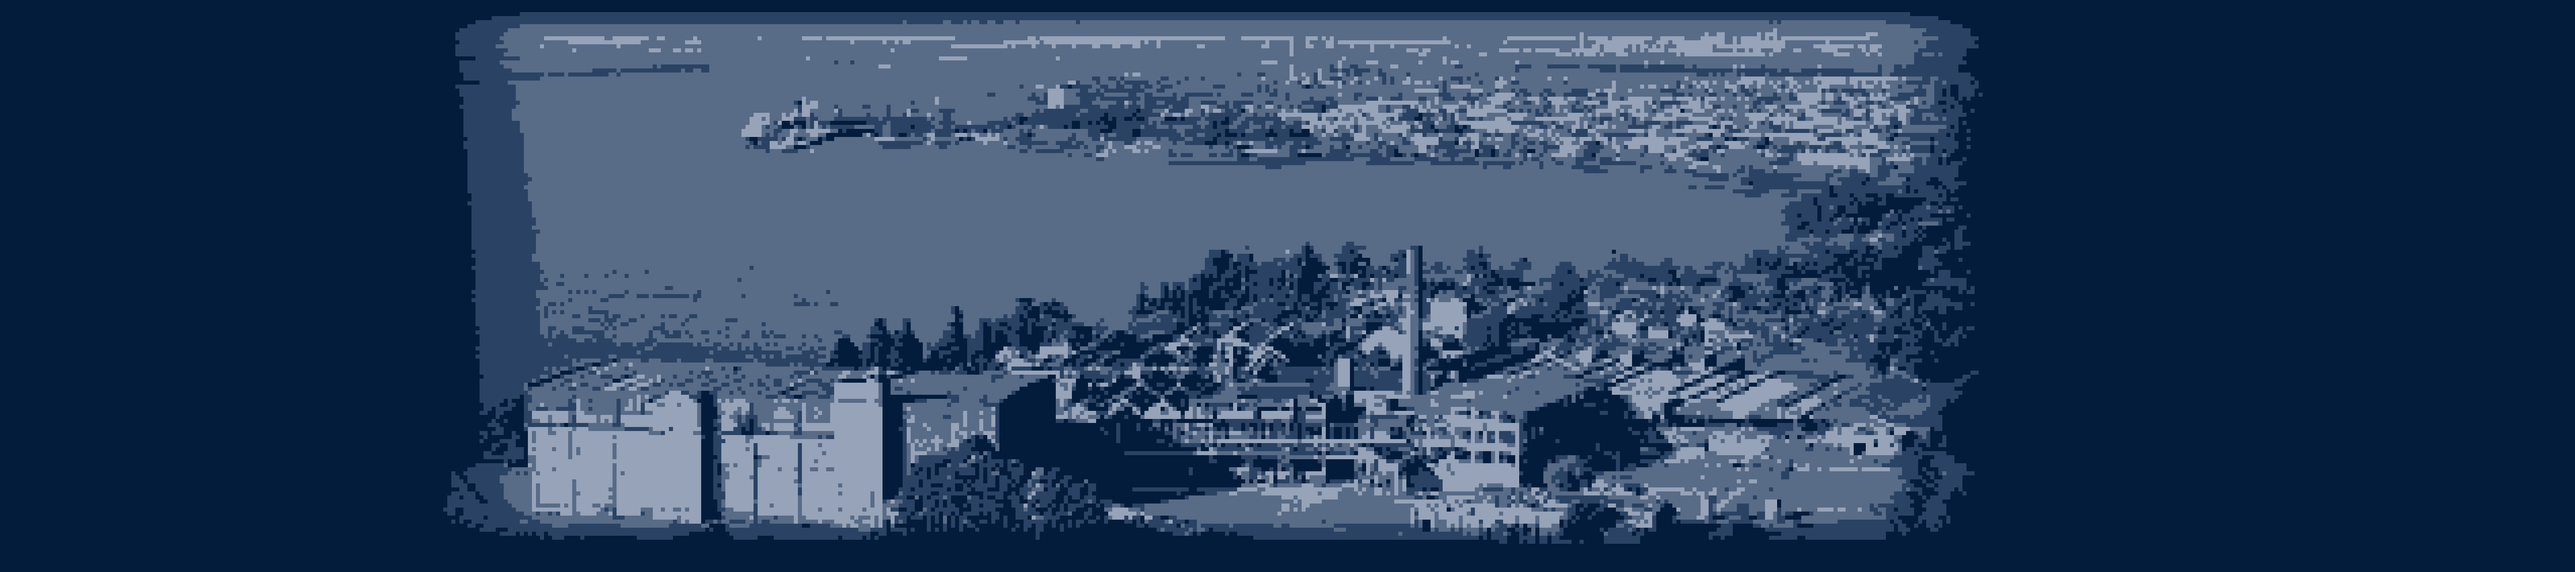
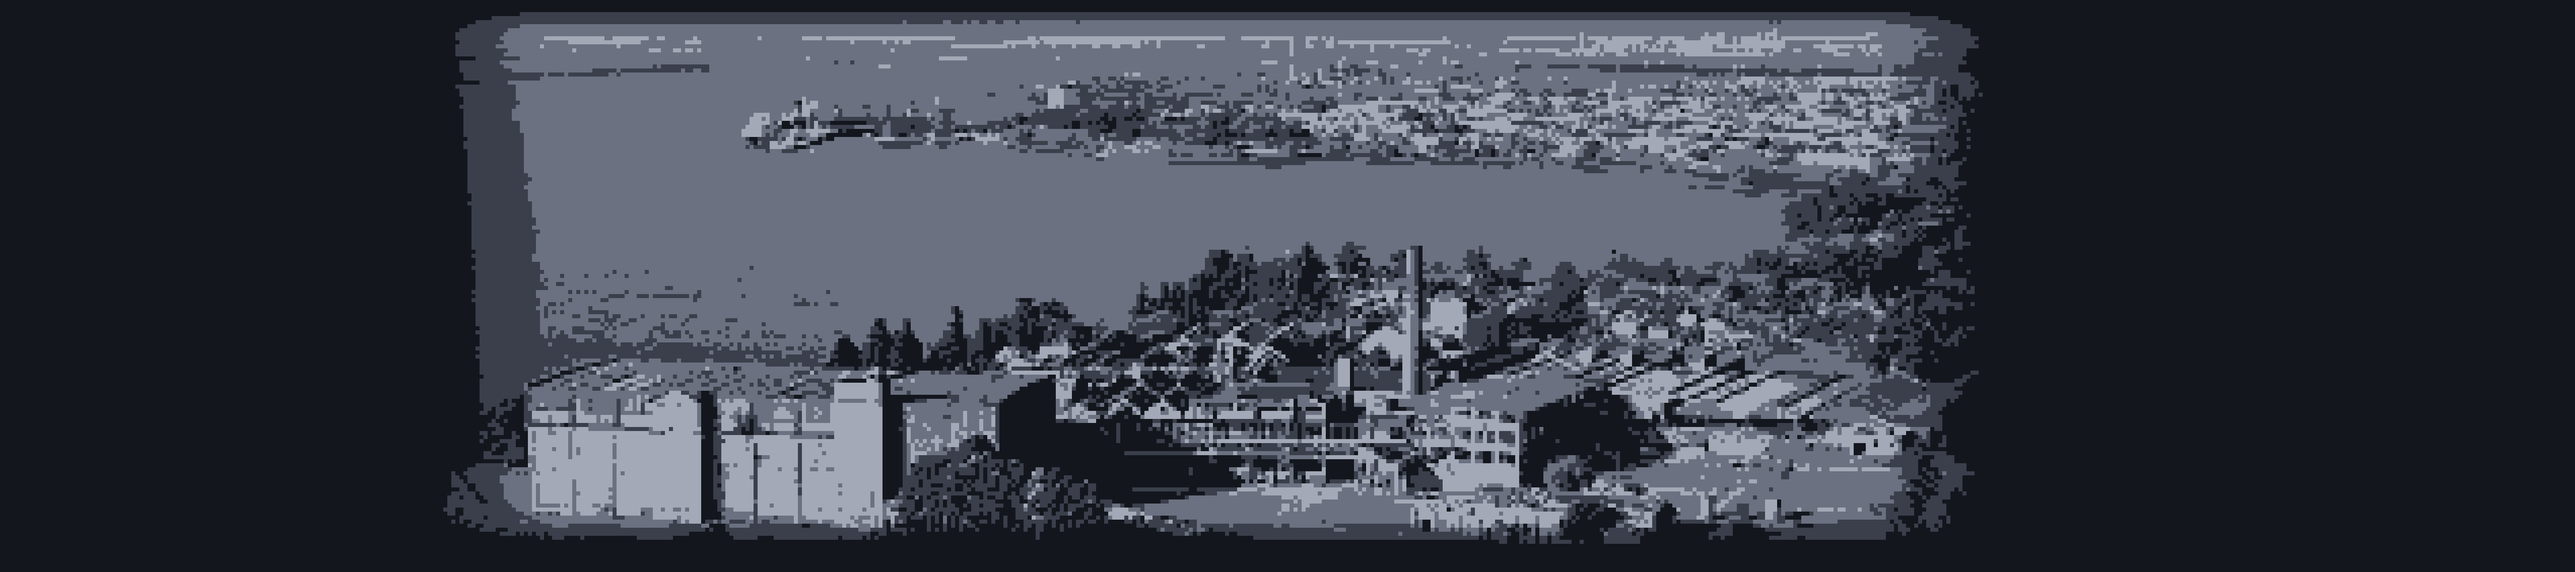
Azul marino solo en el encabezado y el hero del Inicio
El resto del sitio vuelve a la tinta #13161D, que se lee mejor. Quedan
los tres azules en la barra superior, el encabezado (logo, menú y línea)
y el hero del Inicio.

Claude-Session: https://claude.ai/code/session_01XDQNezff6H2LUhgaf4Q66F

diff --git a/src/sitio/componentes/inicio/HeroInicio.tsx b/src/sitio/componentes/inicio/HeroInicio.tsx
@@ -39,7 +39,7 @@ export function HeroInicio({ children }: { children?: React.ReactNode }) {
     .replace('.', '')
 
   return (
-    <section aria-label="Visión FM 96.5" className="relative isolate overflow-hidden bg-blanco text-tinta">
+    <section aria-label="Visión FM 96.5" className="relative isolate overflow-hidden bg-blanco text-marino">
       {/* Web: el dibujo del Anglo, con más agua abajo para llenar el hueco debajo de los botones */}
       <div
         aria-hidden
@@ -55,7 +55,7 @@ export function HeroInicio({ children }: { children?: React.ReactNode }) {
             <span className="block">Fray Bentos</span>
           </h1>
           {/* En web, una idea por renglón */}
-          <p className="m-0 max-w-[520px] text-[17px] leading-[1.5] text-pretty text-tinta [text-shadow:0_0_10px_#fff,0_0_4px_#fff] md:text-xl lg:max-w-none">
+          <p className="m-0 max-w-[520px] text-[17px] leading-[1.5] text-pretty text-marino [text-shadow:0_0_10px_#fff,0_0_4px_#fff] md:text-xl lg:max-w-none">
             <span className="lg:block">Escuchá la radio en vivo,</span>{' '}
             <span className="lg:block">leé las noticias de Fray{'\u00a0'}Bentos y Río{'\u00a0'}Negro</span>{' '}
             <span className="lg:block">y mirá la cartelera de Cinevisión.</span>
@@ -65,7 +65,7 @@ export function HeroInicio({ children }: { children?: React.ReactNode }) {
             <BotonEnVivo variante="inicio" />
             <Link
               href="/radio/programacion"
-              className="apretable hidden min-h-[54px] items-center rounded-[3px] border-2 border-tinta bg-blanco px-7 text-[13px] font-extrabold tracking-[0.1em] text-tinta uppercase no-underline hover:bg-tinta hover:text-blanco md:flex"
+              className="apretable hidden min-h-[54px] items-center rounded-[3px] border-2 border-marino bg-blanco px-7 text-[13px] font-extrabold tracking-[0.1em] text-marino uppercase no-underline hover:bg-marino hover:text-blanco md:flex"
             >
               Programación completa
             </Link>
@@ -79,7 +79,7 @@ export function HeroInicio({ children }: { children?: React.ReactNode }) {
 
         <div
           id="programacion"
-          className="relative flex min-w-0 flex-[1_1_360px] flex-col rounded-[8px] border border-tinta bg-blanco px-5 pt-5 pb-1.5 shadow-[0_14px_40px_rgb(3_28_59/0.14)] md:px-6 md:pt-[22px] flotante-claro lg:absolute lg:top-[351px] lg:left-[847.5px] lg:w-[360px]"
+          className="relative flex min-w-0 flex-[1_1_360px] flex-col rounded-[8px] border border-marino bg-blanco px-5 pt-5 pb-1.5 shadow-[0_14px_40px_rgb(3_28_59/0.14)] md:px-6 md:pt-[22px] flotante-claro lg:absolute lg:top-[351px] lg:left-[847.5px] lg:w-[360px]"
         >
           <div className="flex items-center justify-between gap-3 pb-3">
             <h2 className="m-0 flex items-center gap-2 text-xs font-extrabold tracking-[0.12em] text-acento uppercase md:text-[13px]">
@@ -87,7 +87,7 @@ export function HeroInicio({ children }: { children?: React.ReactNode }) {
               {alAire ? alAire.programa.nombre : 'A continuación'}
             </h2>
             <span className="hidden text-[13px] text-meta first-letter:uppercase md:inline">{fechaCabecera}</span>
-            <Link href="/radio/programacion" className="text-xs font-bold text-tinta md:hidden">
+            <Link href="/radio/programacion" className="text-xs font-bold text-marino md:hidden">
               Ver toda
             </Link>
           </div>
@@ -106,7 +106,7 @@ export function HeroInicio({ children }: { children?: React.ReactNode }) {
 
       <a
         href="#despues-del-hero"
-        className="invitacion-titilar absolute bottom-5 left-1/2 hidden -translate-x-1/2 flex-col items-center gap-1.5 text-[11px] font-extrabold tracking-[0.16em] text-meta uppercase no-underline hover:text-tinta lg:flex"
+        className="invitacion-titilar absolute bottom-5 left-1/2 hidden -translate-x-1/2 flex-col items-center gap-1.5 text-[11px] font-extrabold tracking-[0.16em] text-meta uppercase no-underline hover:text-marino lg:flex"
       >
         <IconoFlechaAbajo tamano={18} className="invitacion-bajar" />
         Deslizá para seguir

diff --git a/src/sitio/componentes/globales/Encabezado.tsx b/src/sitio/componentes/globales/Encabezado.tsx
@@ -82,10 +82,10 @@ export function Encabezado({
           className="fixed inset-0 z-[19] bg-tinta/60 lg:hidden"
         />
       )}
-      <header className="relative z-20 border-b-[3px] border-tinta bg-blanco">
+      <header className="relative z-20 border-b-[3px] border-marino bg-blanco">
         {/* Web */}
         <div className="contenedor hidden items-center justify-between gap-4 py-2 lg:flex">
-          <Link href="/" className="text-tinta" aria-label="Visión FM 96.5, ir al inicio">
+          <Link href="/" className="text-marino" aria-label="Visión FM 96.5, ir al inicio">
             <LogoApilado tamano={40} className="block" />
           </Link>
           <nav ref={nav} aria-label="Principal" className="flex gap-7 text-marino-menu">
@@ -129,7 +129,7 @@ export function Encabezado({
                   <IconoFlechaAbajo />
                 </button>
                 {desplegado === g.clave && (
-                  <div className="absolute top-full -left-[18px] z-30 flex min-w-[260px] flex-col border-2 border-tinta bg-blanco">
+                  <div className="absolute top-full -left-[18px] z-30 flex min-w-[260px] flex-col border-2 border-marino bg-blanco text-marino-menu">
                     {g.enlaces.map((e) => (
                       <Link
                         key={e.href}
@@ -159,7 +159,7 @@ export function Encabezado({
               aria-expanded={menuAbierto}
               aria-controls="menu-movil"
               onClick={() => setMenuAbierto(!menuAbierto)}
-              className="absolute top-0 right-0 flex size-11 cursor-pointer items-center justify-end text-tinta"
+              className="absolute top-0 right-0 flex size-11 cursor-pointer items-center justify-end text-marino"
             >
               {/* Tres líneas sin recuadro, alineadas al margen; al abrir, la de arriba y la de abajo giran y
                   forman la cruz, y la del medio se desvanece */}
@@ -179,12 +179,12 @@ export function Encabezado({
           <Cinta notas={cinta.notas} clima={cinta.clima} />
           {menuAbierto && (
             // Encima de la página, sin empujarla: tapa la línea del encabezado y la repite abajo
-            <div className="absolute inset-x-0 top-full z-10 border-b-[3px] border-tinta bg-blanco px-4 pb-3 shadow-[0_16px_24px_rgb(3_28_59/0.18)] md:px-6">
+            <div className="absolute inset-x-0 top-full z-10 border-b-[3px] border-marino bg-blanco px-4 pb-3 shadow-[0_16px_24px_rgb(3_28_59/0.18)] md:px-6">
               <nav
                 id="menu-movil"
                 aria-label="Principal"
                 // El encabezado es fijo: el menú abierto se desplaza adentro si no entra en la pantalla
-                className="flex max-h-[calc(100dvh-7rem)] flex-col overflow-y-auto overscroll-contain border-t-[3px] border-tinta text-marino-menu"
+                className="flex max-h-[calc(100dvh-7rem)] flex-col overflow-y-auto overscroll-contain border-t-[3px] border-marino text-marino-menu"
               >
                 {DIRECTOS_CELULAR.map((e) => {
                   const enSeccion = ruta === e.href || ruta.startsWith(`${e.href}/`)

diff --git a/src/styles/tokens.css b/src/styles/tokens.css
@@ -3,10 +3,11 @@
 @theme {
   --color-*: initial;
   --color-blanco: #ffffff;
-  --color-tinta: #031c3b;
-  /* Azules institucionales (27/11/2026): la tinta (#031C3B) es la de los títulos y el texto; la barra de
-     arriba y el menú principal llevan los suyos */
+  --color-tinta: #13161d;
+  /* Azules institucionales (27/11/2026), solo en el encabezado y el hero del Inicio: el resto del sitio es
+     de lectura y sigue con la tinta. Barra de arriba, títulos del hero y logo, y menú principal. */
   --color-marino-barra: #011b3c;
+  --color-marino: #031c3b;
   --color-marino-menu: #101f3a;
   --color-acento: #c03a0b;
   --color-acento-hover: #a3330a;
@@ -23,9 +24,9 @@
   --color-meta: #545862;
   --color-oscuro-1: #c9ccd3;
   --color-oscuro-2: #9ea3ae;
-  --color-oscuro-borde: #2a4364;
-  --color-oscuro-linea: #1c3557;
-  --color-oscuro-caja: #0d2849;
+  --color-oscuro-borde: #3a3f4b;
+  --color-oscuro-linea: #2c313c;
+  --color-oscuro-caja: #1d212b;
   /* Carrusel de Cinevisión */
   --color-carrusel: #d4d2cd;
   --color-carrusel-2: #cbc9c3;

diff --git a/src/sitio/componentes/inicio/FondoPixelado.tsx b/src/sitio/componentes/inicio/FondoPixelado.tsx
@@ -24,7 +24,7 @@ import { useRadio } from '../reproductor/Radio'
  */
 /** Si se cambia una imagen, va con otro nombre: así el navegador y Cloudflare no muestran la vieja. */
 const IMAGENES = ['/hero/plaza-4px.png', '/hero/anglo-4px.png']
-const TINTA = '#031c3b'
+const TINTA = '#13161d'
 
 /** Lado del cuadrito dentro de la imagen (las imágenes están al doble: 4 px en pantalla). */
 const CELDA = 8
@@ -368,7 +368,7 @@ export function FondoPixelado() {
         <canvas ref={lienzo} className="absolute inset-0 size-full opacity-0" />
       </div>
       {/* Velo: oscuro donde va el texto, abierto donde está la figura */}
-      <div className="absolute inset-0 bg-[linear-gradient(90deg,rgb(3_28_59/0.6)_max(30%,calc(50%-290px)),rgb(3_28_59/0.25)_max(52%,calc(50%+30px)),transparent_max(70%,calc(50%+290px)))]" />
+      <div className="absolute inset-0 bg-[linear-gradient(90deg,rgb(19_22_29/0.6)_max(30%,calc(50%-290px)),rgb(19_22_29/0.25)_max(52%,calc(50%+30px)),transparent_max(70%,calc(50%+290px)))]" />
     </div>
   )
 }

diff --git a/src/app/global-error.tsx b/src/app/global-error.tsx
@@ -5,7 +5,7 @@
 export default function ErrorGlobal({ reset }: { reset: () => void }) {
   return (
     <html lang="es-UY">
-      <body style={{ margin: 0, fontFamily: 'system-ui, -apple-system, "Segoe UI", Roboto, sans-serif', color: '#031c3b', background: '#fff' }}>
+      <body style={{ margin: 0, fontFamily: 'system-ui, -apple-system, "Segoe UI", Roboto, sans-serif', color: '#13161d', background: '#fff' }}>
         <main style={{ maxWidth: 1240, margin: '0 auto', padding: '64px 16px' }}>
           <span style={{ fontSize: 12, fontWeight: 800, letterSpacing: '.12em', textTransform: 'uppercase', color: '#c03a0b' }}>
             Error 500

diff --git a/tests/e2e/equipo.spec.ts b/tests/e2e/equipo.spec.ts
@@ -33,7 +33,7 @@ test('en web, todas las tarjetas son iguales y la franja va sobre la parte de ab
     expect(c.franjaAbajo).toBeCloseTo(c.abajo, 0)
   }
   const franja = tarjetas.first().locator('> div')
-  await expect(franja).toHaveCSS('background-color', 'rgb(3, 28, 59)')
+  await expect(franja).toHaveCSS('background-color', 'rgb(19, 22, 29)')
   await expect(franja).toHaveCSS('border-top-width', '4px')
   await expect(franja).toHaveCSS('border-top-color', 'rgb(192, 58, 11)')
 })

diff --git a/src/sitio/componentes/reproductor/CabeceraCelular.tsx b/src/sitio/componentes/reproductor/CabeceraCelular.tsx
@@ -19,7 +19,7 @@ export function CabeceraCelular() {
 
   return (
     <div className="cabecera-celular" data-activo={activo || undefined}>
-      <Link href="/" className="cabecera-logo text-tinta" aria-label="Visión FM 96.5, ir al inicio">
+      <Link href="/" className="cabecera-logo text-marino" aria-label="Visión FM 96.5, ir al inicio">
         <LogoApilado className="cabecera-logo-entero block" />
         <LogoCompacto className="cabecera-logo-compacto" />
       </Link>

diff --git a/src/sitio/admin/Marca.tsx b/src/sitio/admin/Marca.tsx
@@ -33,7 +33,7 @@ export function Icono() {
       width={24}
       height={24}
     >
-      <rect width="48" height="48" fill="#031C3B" />
+      <rect width="48" height="48" fill="#13161D" />
       <path fill="#FFFFFF" d={V} />
       <rect x="0" y="45" width="48" height="3" fill="#C03A0B" />
     </svg>

diff --git a/design/LEEME.md b/design/LEEME.md
@@ -79,7 +79,8 @@ Son HTML con una pequeña capa de plantilla:
 ### Colores
 | Token | Valor | Uso |
 |---|---|---|
-| `ink` | `#031C3B` | Azul marino institucional (27/11/2026, antes `#13161D`): texto principal, H1 y titulares, fondos oscuros (barra superior, hero en vivo, footer), botones secundarios, líneas gruesas. Las cajas, líneas y bordes sobre fondo oscuro van en la misma gama: `#0D2849`, `#1C3557` y `#2A4364` |
+| `ink` | `#13161D` | Texto principal, fondos oscuros (hero en vivo, footer), botones secundarios, líneas gruesas. El sitio es de lectura: el texto y los títulos siguen en este casi negro |
+| `marino` | `#031C3B` | Azul institucional (27/11/2026), **solo** en el encabezado y el hero del Inicio: logo, línea de 3 px del header, título, frase, panel y botón de contorno del hero |
 | `marino-barra` | `#011B3C` | Fondo de la barra superior (web) |
 | `marino-menu` | `#101F3A` | Texto del menú principal (web y celular) |
 | `accent` | `#C03A0B` | Botón "Escuchar en vivo", kickers/etiquetas de sección, subrayado de pestaña activa, botones principales |
